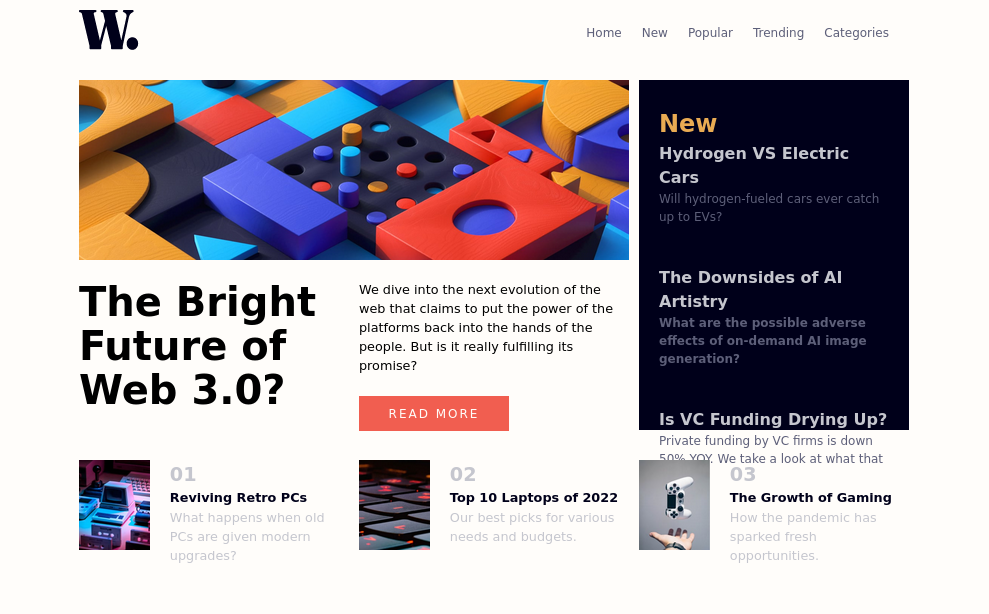
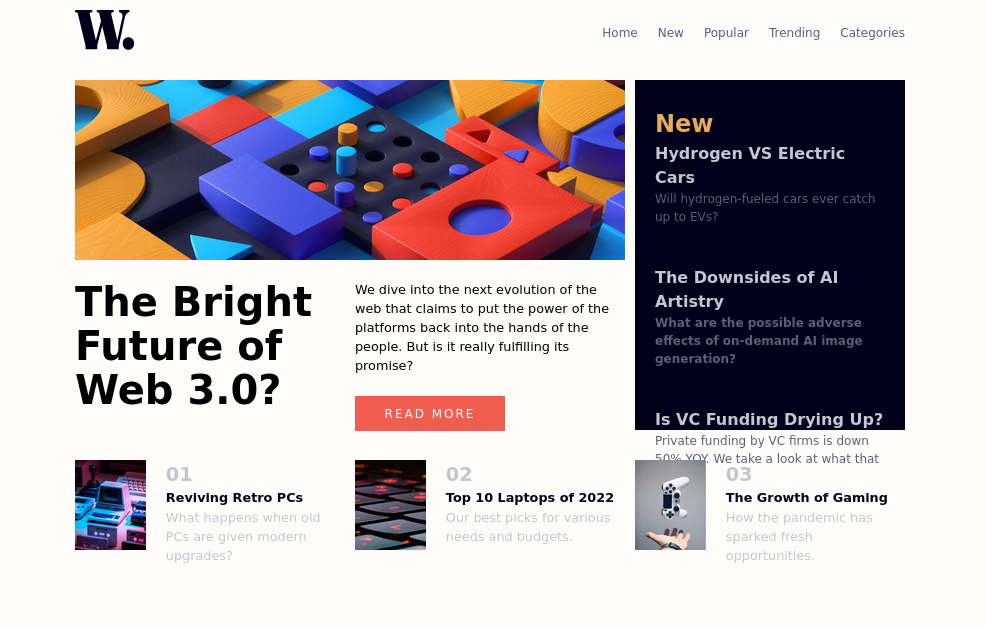
README and Screenshot

diff --git a/style.css b/style.css
@@ -424,7 +424,7 @@ div {
 
   .container,
   .nav {
-    width: 820px;
+    width: 840px;
   }
 
   #ctaImg {
